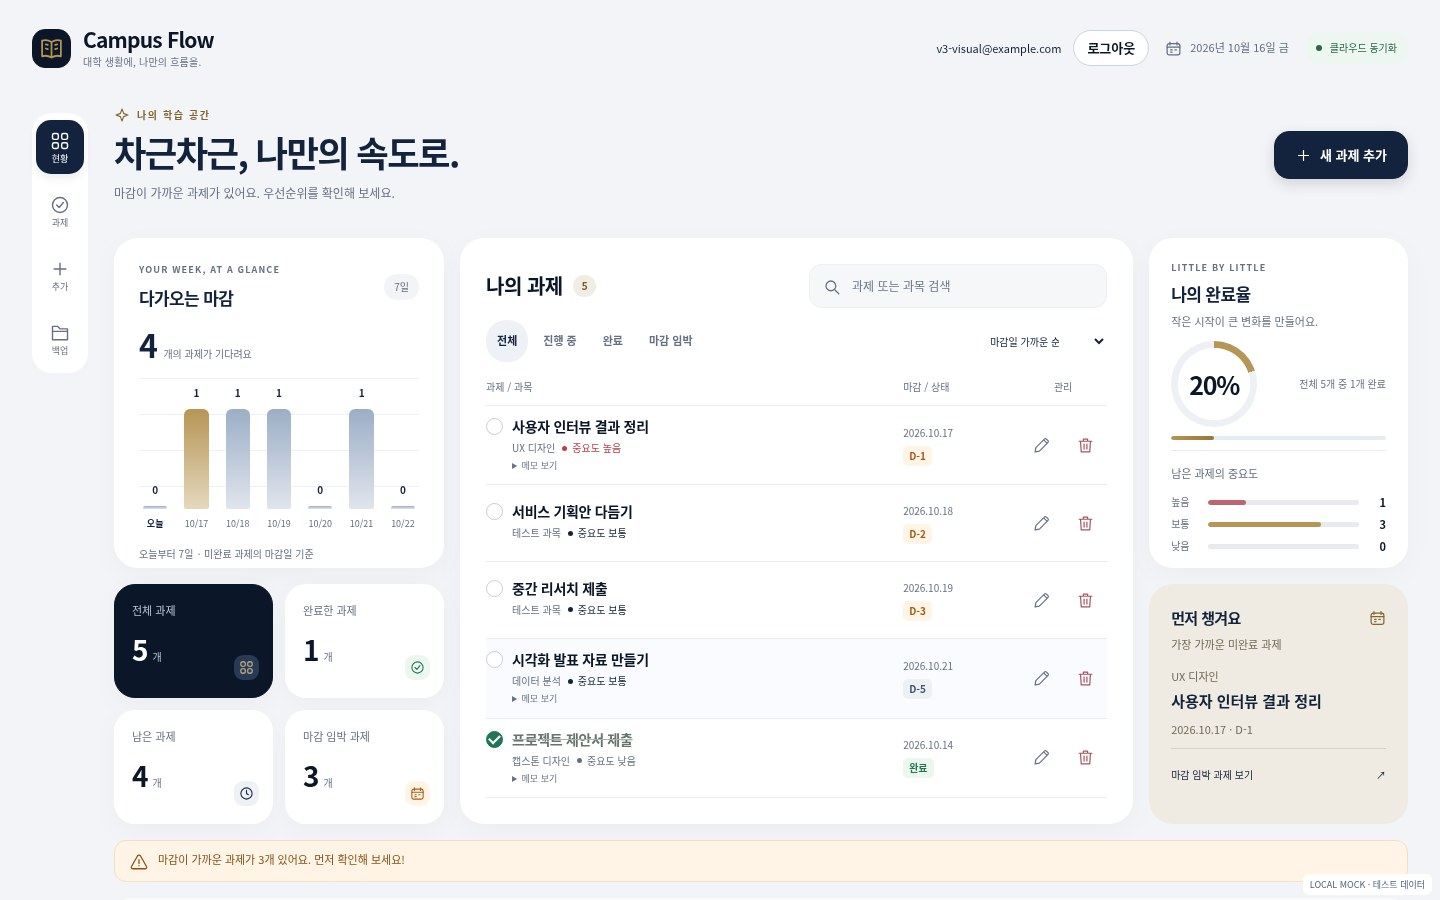
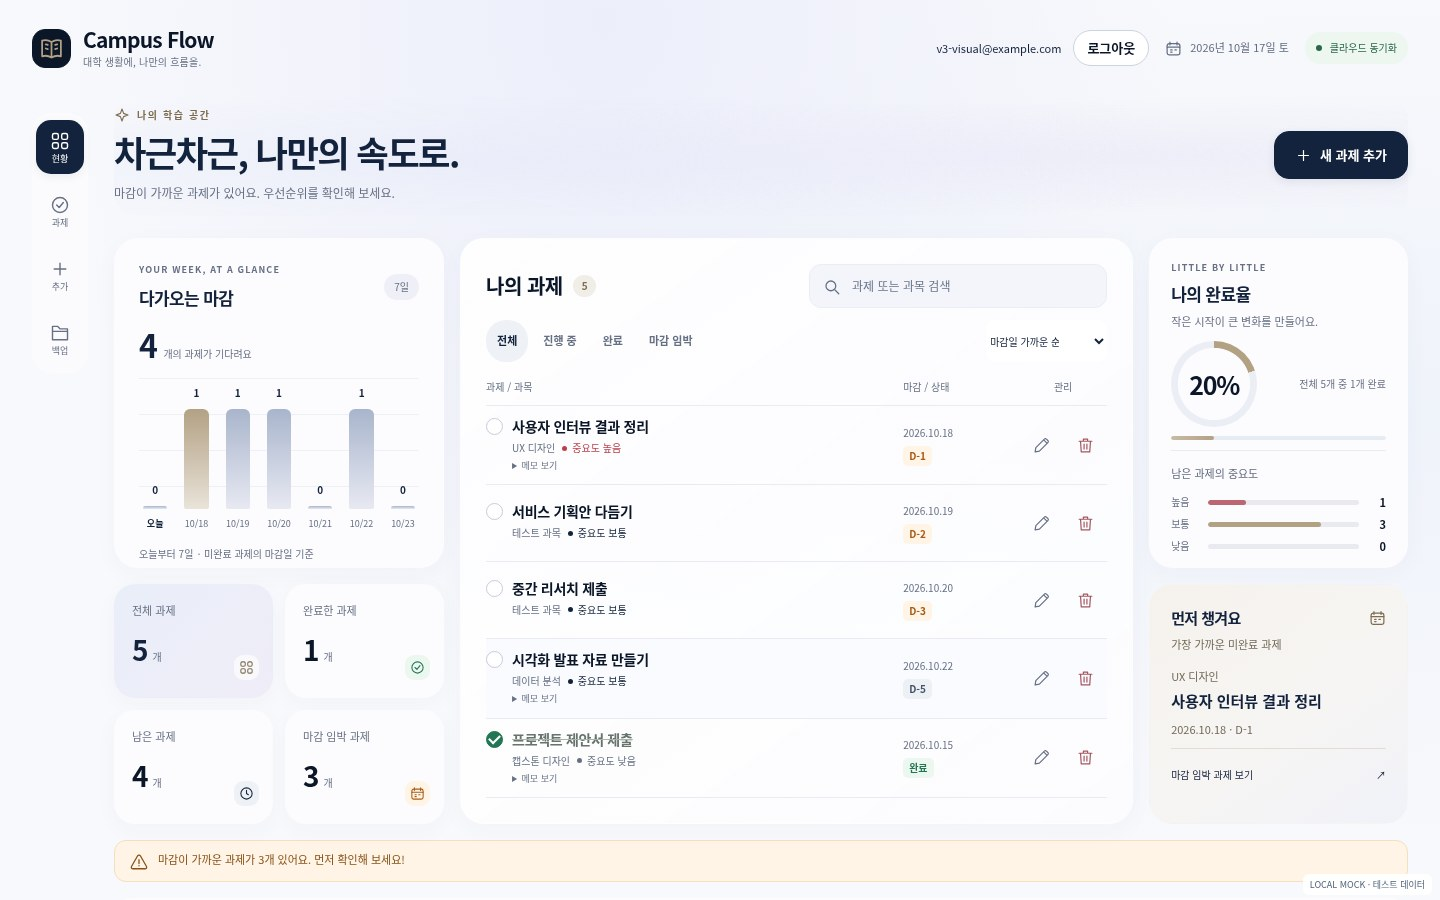
style: soften V3 with pastel surfaces and champagne gold

diff --git a/index.html b/index.html
@@ -471,9 +471,14 @@
       .backup-actions .button { font-size: 11px; }
     }
     /* Bento V3: 목록이 중심인 비대칭 작업 공간. Firebase DOM 계약은 유지합니다. */
-    :root { --bg: #f3f4f7; --line: #e9ecf1; --radius: 24px; --shadow: 0 8px 30px rgb(20 35 61 / 3%); }
+    :root {
+      --bg: #f8f9fc; --surface: #fcfcfe; --line: #e9ebf2; --radius: 24px;
+      --gold: #b3a184; --gold-hover: #8c7859; --gold-ink: #7e6c51;
+      --shadow: 0 6px 24px rgb(62 72 112 / 3%);
+    }
+    body { background: radial-gradient(ellipse at 42% 2%, #eceefa 0, transparent 48%), radial-gradient(ellipse at 96% 40%, #eff3fa 0, transparent 52%), var(--bg); }
     .wrap { width: min(1512px, calc(100% - 64px)); }
-    .topbar { background: var(--bg); border: 0; backdrop-filter: none; }
+    .topbar { background: transparent; border: 0; backdrop-filter: none; }
     .topbar-inner { min-height: 96px; }
     .brand-mark { width: 39px; height: 39px; border-radius: 13px; }
     .brand-name { font-size: 21px; letter-spacing: -.8px; }
@@ -482,44 +487,54 @@
     .account-email { max-width: 190px; font-size: 11px; }
     .storage-chip { border: 0; min-height: 32px; font-size: 10px; }
     .dashboard-shell { grid-template-columns: 56px minmax(0, 1fr); gap: 26px; }
-    .side-rail { top: 24px; margin-top: 17px; padding: 7px 4px; gap: 10px; border: 0; border-radius: 20px; box-shadow: none; }
+    .side-rail { top: 24px; margin-top: 17px; padding: 7px 4px; gap: 10px; border: 0; border-radius: 20px; background: #fcfcfdd9; box-shadow: none; }
     .rail-link { width: 48px; min-height: 54px; border-radius: 15px; color: #667085; font-size: 9px; font-weight: 500; }
-    .rail-link.is-current { background: var(--navy); box-shadow: 0 4px 10px #14233d15; }
-    .welcome { min-height: 120px; margin: 0 0 22px; padding: 10px 0 12px; border: 0; border-radius: 0; background: none; box-shadow: none; overflow: visible; }
+    .rail-link.is-current { background: var(--navy); box-shadow: 0 3px 8px rgb(38 51 79 / 7%); }
+    .welcome { min-height: 120px; margin: 0 0 22px; padding: 10px 0 12px; border: 0; border-radius: 24px; background: radial-gradient(ellipse at 30% 55%, #e6ebf980, transparent 70%), radial-gradient(ellipse at 80% 50%, #eae6f580, transparent 65%); box-shadow: none; overflow: visible; }
     .welcome::before { content: none; }
-    .welcome .eyebrow { margin-bottom: 6px; color: #85652f; font-size: 10px; letter-spacing: .16em; }
+    .welcome .eyebrow { margin-bottom: 6px; color: var(--gold-ink); font-size: 10px; letter-spacing: .16em; }
     .welcome h1 { font-size: clamp(25px, 2.45vw, 36px); letter-spacing: -1.6px; line-height: 1.3; font-weight: 650; }
     .welcome-description { font-size: 12px; color: var(--muted); margin-top: 8px; }
     .add-task-button { min-height: 48px; border-radius: 15px; padding-inline: 20px; flex-shrink: 0; }
     .bento-board { display: grid; grid-template-columns: minmax(250px, 1.02fr) minmax(440px, 2.08fr) minmax(196px, .8fr); grid-template-rows: 330px 240px; gap: 16px; align-items: stretch; }
     .overview-section, .workspace { display: contents; }
     .panel, .list-section, .progress-panel, .stat { border-color: transparent; }
+    .button.primary { box-shadow: 0 3px 10px rgb(38 51 79 / 9%); }
+    .auth-card { box-shadow: 0 10px 32px rgb(62 72 112 / 5%); }
+    .auth-shell { background: radial-gradient(ellipse at 18% 35%, #e8edf980, transparent 50%), radial-gradient(ellipse at 82% 55%, #eee9f680, transparent 55%); }
+    .auth-intro .eyebrow, .auth-benefits .icon { color: var(--gold-ink); }
     .deadline-panel { grid-column: 1; grid-row: 1; padding: 24px; min-width: 0; }
     .card-heading { display: flex; justify-content: space-between; align-items: center; gap: 10px; }
     .card-heading h2 { font-size: 17px; font-weight: 650; letter-spacing: -.6px; }
     .card-kicker { font-size: 9px; color: var(--muted); letter-spacing: .13em; font-weight: 650; margin-bottom: 7px; }
-    .subtle-chip { background: #f3f4f7; color: #667085; font-size: 10px; border-radius: 20px; padding: 5px 10px; white-space: nowrap; }
+    .subtle-chip { background: #eff0f7; color: #667085; font-size: 10px; border-radius: 20px; padding: 5px 10px; white-space: nowrap; }
     .chart-summary { display: flex; align-items: baseline; gap: 7px; margin-top: 16px; }
     .chart-summary strong { font-size: 32px; line-height: 1; font-weight: 600; letter-spacing: -1.5px; }
     .chart-summary span { font-size: 10px; color: var(--muted); }
     .deadline-chart { display: flex; height: 154px; align-items: stretch; gap: 9px; margin-top: 16px; background: repeating-linear-gradient(to top, transparent 0, transparent 35px, #edf0f4 35px, #edf0f4 36px); background-size: 100% 144px; background-repeat: no-repeat; }
     .day-column { display: flex; flex: 1; flex-direction: column; justify-content: end; align-items: center; min-width: 0; gap: 8px; color: var(--muted); font-size: 9px; }
-    .day-bar { display: block; background: linear-gradient(0deg, #e0e5ed, #9caec6); border-radius: 6px 6px 2px 2px; min-height: 3px; width: 75%; }
-    .day-column.is-peak .day-bar { background: linear-gradient(0deg, #e5d8bd, #b79555); }
+    .day-bar { display: block; background: linear-gradient(0deg, #e7e9f2, #a9b5cc); border-radius: 6px 6px 2px 2px; min-height: 3px; width: 75%; }
+    .day-column.is-peak .day-bar { background: linear-gradient(0deg, #e9e3d9, var(--gold)); }
     .day-column.is-today > span:last-child { color: var(--ink); font-weight: 700; }
     .day-column b { font-size: 10px; font-weight: 600; color: var(--ink); }
     .chart-footnote { color: var(--muted); font-size: 10px; margin-top: 14px; line-height: 1.6; }
     .stats { grid-column: 1; grid-row: 2; gap: 12px; }
     .stat { min-height: 106px; padding: 17px; border-radius: 21px; align-items: flex-start; position: relative; }
+    .stat:first-child { background: linear-gradient(135deg, #e9eef9, #efedf7); border-color: transparent; }
+    .stat:first-child .stat-label, .stat:first-child .stat-unit { color: var(--muted); }
+    .stat:first-child .stat-value { color: var(--ink); }
+    .stat:first-child .stat-icon { background: #ffffffa6; color: var(--gold-ink); }
     .stat-label { font-size: 11px; font-weight: 500; }
     .stat-value { font-size: 28px; font-weight: 600; margin-top: 13px; letter-spacing: -1px; }
     .stat-unit { font-size: 10px; }
     .stat-icon { width: 25px; height: 25px; border-radius: 9px; position: absolute; right: 13px; bottom: 17px; }
     .stat-icon .icon { width: 15px; height: 15px; }
-    .progress-panel { grid-column: 3; grid-row: 1; padding: 22px 21px; gap: 10px; background: #fff; }
+    .progress-panel { grid-column: 3; grid-row: 1; padding: 22px 21px; gap: 10px; background: var(--surface); }
     .progress-title { font-size: 17px; font-weight: 650; letter-spacing: -.6px; }
     .progress-caption { font-size: 11px; line-height: 1.6; }
-    .progress-number { --completion: 0; width: 86px; height: 86px; flex-shrink: 0; display: grid; place-items: center; border-radius: 50%; font-size: 25px; font-weight: 600; letter-spacing: -1.2px; background: radial-gradient(closest-side, #fff 83%, transparent 85%), conic-gradient(var(--gold) calc(var(--completion) * 1%), #edf0f4 0); }
+    .progress-number { --completion: 0; width: 86px; height: 86px; flex-shrink: 0; display: grid; place-items: center; border-radius: 50%; font-size: 25px; font-weight: 600; letter-spacing: -1.2px; background: radial-gradient(closest-side, var(--surface) 83%, transparent 85%), conic-gradient(var(--gold) calc(var(--completion) * 1%), #eceef5 0); }
+    .progress-fill { background: linear-gradient(90deg, #c8bba4, var(--gold)); }
+    .priority-fill.normal { background: var(--gold); }
     .progress-label { flex-direction: row-reverse; align-items: center; gap: 9px; font-size: 10px; }
     #progress-summary { max-width: 90px; line-height: 1.8; word-break: keep-all; }
     .progress-track { height: 4px; }
@@ -527,16 +542,16 @@
     .chart-title { font-size: 11px; font-weight: 500; margin-bottom: 9px; }
     .priority-row { color: var(--muted); }
     .priority-row { min-height: 22px; }
-    .focus-panel { grid-column: 3; grid-row: 2; padding: 21px; background: #efebe2; box-shadow: none; overflow: auto; }
+    .focus-panel { grid-column: 3; grid-row: 2; padding: 21px; background: linear-gradient(145deg, #f5f2ed, #f7f5f3 55%, #f0f2f9); box-shadow: none; overflow: auto; }
     .focus-panel .card-heading h2 { font-size: 15px; }
-    .focus-panel .card-heading .icon { width: 17px; color: #85652f; }
+    .focus-panel .card-heading .icon { width: 17px; color: var(--gold-ink); }
     .focus-caption { font-size: 11px; color: #716958; margin-top: 6px; }
     .next-subject { font-size: 11px; color: #716958; margin-top: 14px; overflow-wrap: anywhere; }
     .next-title { font-size: 15px; line-height: 1.5; font-weight: 600; margin-top: 5px; overflow-wrap: anywhere; }
     .next-date { font-size: 11px; color: #716958; margin-top: 8px; }
-    .text-button { background: none; border: 0; border-top: 1px solid #d9d1c3; width: 100%; min-height: 44px; margin-top: 10px; padding: 9px 0 0; display: flex; align-items: center; justify-content: space-between; text-align: left; font-size: 10px; }
+    .text-button { background: none; border: 0; border-top: 1px solid #e2dcd2; width: 100%; min-height: 44px; margin-top: 10px; padding: 9px 0 0; display: flex; align-items: center; justify-content: space-between; text-align: left; font-size: 10px; }
     .text-button:hover { color: #705121; }
-    .list-section { grid-column: 2; grid-row: 1 / 3; padding: 25px; min-height: 0; display: flex; flex-direction: column; border-radius: var(--radius); }
+    .list-section { grid-column: 2; grid-row: 1 / 3; padding: 25px; min-height: 0; display: flex; flex-direction: column; border-radius: var(--radius); background: linear-gradient(145deg, #ffffffed, #fcfcfef5); }
     .task-list { overflow-y: auto; min-height: 0; flex: 1; scrollbar-width: thin; scrollbar-color: #d9dfe7 transparent; }
     .section-heading { font-size: 20px; font-weight: 650; }
     .list-search-row { display: flex; align-items: center; justify-content: space-between; gap: 16px; }
@@ -567,12 +582,12 @@
     .task-note[open] { grid-column: 1 / -1; margin-top: 3px; }
     .task-note[open] > p { white-space: pre-wrap; max-height: 180px; overflow: auto; padding: 8px 12px; background: #f5f6f8; border-radius: 9px; font-size: 11px; }
     .task-card:has(.task-note[open]) .task-meta, .task-card:has(.task-note[open]) .task-actions { grid-row: 1 / 3; }
-    .search-box input { font-size: 12px; min-height: 42px; border-color: #edf0f3; background: #f6f7f9; border-radius: 12px; }
+    .search-box input { font-size: 12px; min-height: 42px; border-color: #ebedf4; background: #f3f5fa; border-radius: 12px; }
     .list-toolbar { gap: 8px; flex-wrap: wrap; }
     .filter { padding: 8px 10px; font-size: 11px; border-radius: 20px; }
     .filter[aria-pressed="true"] { background: #eef1f6; border-color: transparent; color: var(--navy); }
     .sort-control select { font-size: 10px; border: 0; padding-left: 0; }
-    .count-pill { font-size: 10px; background: #f1ede4; }
+    .count-pill { font-size: 10px; color: var(--gold-ink); background: #f1eee8; }
     .list-footnote { font-size: 9px; margin-top: 18px; }
     dialog.form-panel { position: fixed; inset: 0; margin: auto; width: min(580px, calc(100% - 32px)); max-height: calc(100dvh - 32px); padding: 30px; border: 0; border-radius: 24px; }
     .form-close { position: absolute; top: 18px; right: 18px; border: 0; border-radius: 50%; }

diff --git a/BENTO_V3_HANDOFF.md b/BENTO_V3_HANDOFF.md
@@ -50,6 +50,18 @@
 - 미완료 개발: 없음. 미검증 환경: 실제 Firebase Authentication/Firestore, 배포된 규칙, 실제 인증 지속/다중 기기, Safari/Firefox 및 스크린리더 실기. Hosting 배포/보안 규칙 게시는 하지 않았다.
 - 다음 작업: 전용 테스트 계정 및 접근이 허용되는 환경에서 실서비스 검증. PR 기준은 `feat/campus-flow-bento-v2`; 자동 병합하지 않는다.
 
+## 추가 보정 — 밝은 파스텔 프리미엄 무드 (완료)
+
+- 사용자 추가 지시에 따라 V3의 레이아웃과 기능을 유지한 채 CSS 색상·표면·그림자만 보정했다. 기준 HEAD는 `4215a4c98c25d697388fe2873abc947a3ee53210`이며 미커밋 변경과 원격 차이가 없는 상태에서 시작했다.
+- 전체 과제 요약의 네이비 면을 연한 블루·라일락 그라데이션으로 변경했다. 네이비는 로고, 주요 버튼, 선택된 내비게이션과 핵심 텍스트에만 남겼다.
+- 캔버스 `#F8F9FC`, 카드 표면 `#FCFCFE`에 은은한 블루/라일락/실버 톤을 더했다. 환영 영역과 로그인 배경도 같은 색조를 사용하며 카드 배치·크기·여백은 유지했다.
+- Gold는 기존 황색 기운을 낮춘 샴페인 `#B3A184`, hover `#8C7859`로 조절했다. 작은 골드 텍스트/아이콘은 가독성을 위해 더 진한 `#7E6C51`을 사용한다.
+- 다음 마감 카드의 진한 베이지를 밝은 웜오프화이트·실버 톤으로, 강한 버튼/로그인 카드 그림자를 얕고 부드러운 그림자로 교체했다. 오류/위험 표시 의미는 유지한다.
+- 검증: 스타일 뒤의 전체 HTML/JavaScript가 직전 HEAD와 바이트 단위로 동일함을 확인했다. 인증/Firestore/이벤트/DOM 변경 없음. 기존 회귀 **42/42 통과**, 콘솔/런타임 오류 0, 5개 너비 가로 넘침 없음, `git diff --check` 통과.
+- desktop/mobile/login/empty 화면을 실제 Chromium에서 캡처해 시각 확인했고 기존 5개 V3 캡처를 갱신했다. 모두 로컬 모의 데이터다.
+- 변경 파일: `index.html`, 이 문서, `screenshots/bento-v3-*.jpg` 5개. 실제 Firebase 테스트/Hosting 배포/병합 없음.
+- 저장 위치: 기존 `feat/campus-flow-bento-v3`와 Draft PR #1. 이 보정 문서를 포함한 최신 HEAD는 `git rev-parse HEAD`로, 원격 저장은 `git ls-remote origin refs/heads/feat/campus-flow-bento-v3`로 확인한다. 세 개발 체크포인트와 이전 인수인계 커밋은 보존한다.
+
 ## 최종 GitHub 저장
 
 | 체크포인트 | 커밋 | 검증 | GitHub |
